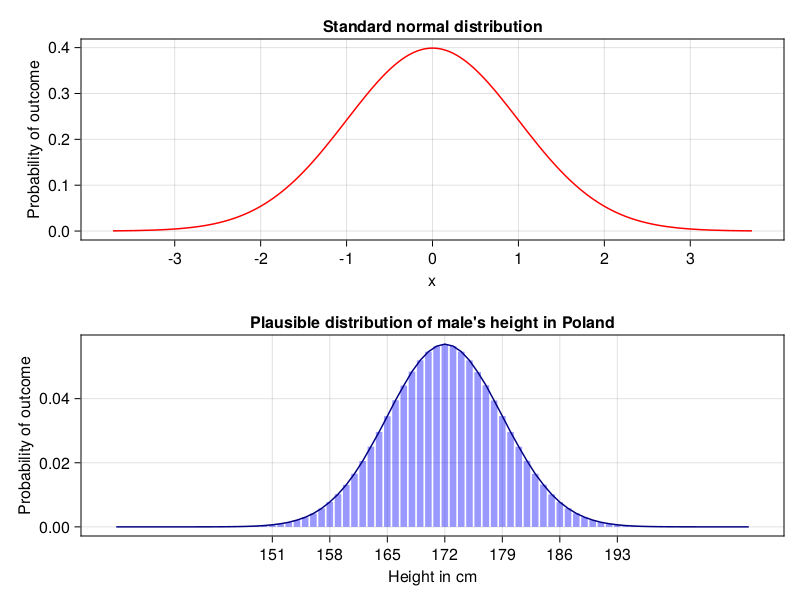
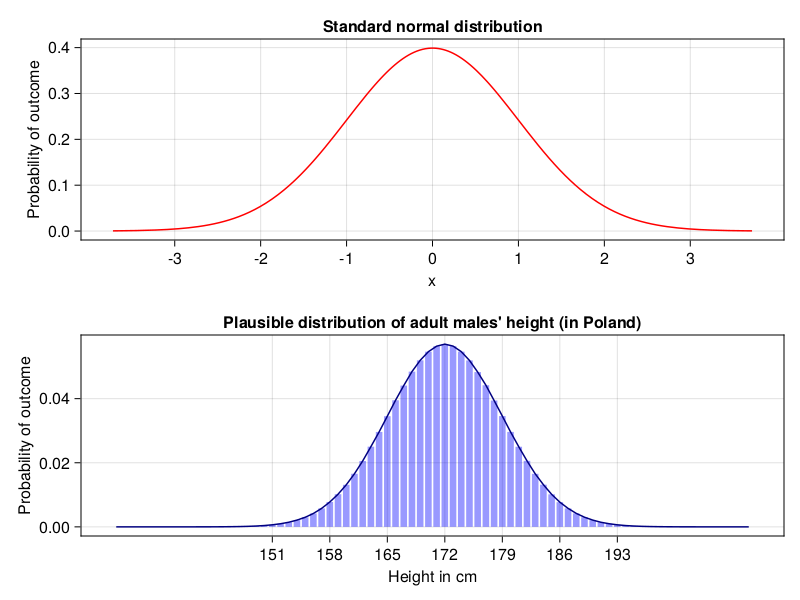
cosmetic changes

Changed region(s): [[0.2812, 0.51, 0.8125, 0.57]]

diff --git a/statistics_normal_distribution.html b/statistics_normal_distribution.html
@@ -5,6 +5,7 @@
   <meta name="viewport" content="width=device-width, initial-scale=1.0, user-scalable=yes" />
   <meta name="author" content="Bartlomiej Lukaszuk" />
   <title>Normal distribution - Romeo and Julia</title>
+
   <link rel="stylesheet" href="./style.css"/>
     <script src="./mousetrap.min.js"></script>
     <style>
@@ -96,12 +97,12 @@ where Romeo is Basic Statistics
 <figure>
 <img src="./images/rolling2diceProbs.png" id="fig:rolling2diceProbs" alt="Figure 5: Experimental probability distribution for rolling two 6-sided dice." /><figcaption aria-hidden="true">Figure 5: Experimental probability distribution for rolling two 6-sided dice.</figcaption>
 </figure>
-<p>What we got here is a <a href="https://en.wikipedia.org/wiki/Bell">bell</a> shaped distribution (c’mon use your imagination). It turns out that quite a few distributions may transform into the distribution that is bell shaped (as an exercise you may want to draw a distribution for the number of heads when tossing 10 fair coins simultaneously). Moreover, many biological phenomena got bell shaped distribution, e.g. men’s height or the famous <a href="https://en.wikipedia.org/wiki/Intelligence_quotient">intelligence quotient</a> (aka IQ). The theoretical name for it is <a href="https://en.wikipedia.org/wiki/Normal_distribution">normal distribution</a>. Placed on a graph it looks like this.</p>
+<p>What we got here is a <a href="https://en.wikipedia.org/wiki/Bell">bell</a> shaped distribution (c’mon use your imagination). It turns out that quite a few distributions may transform into the distribution that is bell shaped (as an exercise you may want to draw a distribution for the number of heads when tossing 10 fair coins simultaneously). Moreover, many biological phenomena got a bell shaped distribution, e.g. men’s height or the famous <a href="https://en.wikipedia.org/wiki/Intelligence_quotient">intelligence quotient</a> (aka IQ). The theoretical name for it is <a href="https://en.wikipedia.org/wiki/Normal_distribution">normal distribution</a>. Placed on a graph it looks like this.</p>
 <figure>
 <img src="./images/normDistribution.png" id="fig:normDistribution" alt="Figure 6: Examples of normal distribution." /><figcaption aria-hidden="true">Figure 6: Examples of normal distribution.</figcaption>
 </figure>
-<p>In Figure <a href="#fig:normDistribution">6</a> upper panel depicts standard normal distributions (<span class="math inline">\(\mu = 0, \sigma = 1\)</span>, explanation in a moment), a theoretical distribution that all statisticians and probably some mathematicians love. The bottom panel shows a distribution that is likely closer to the males’ height distribution in my country. Long time ago I read that the average height for an adult man in Poland is 172 [cm] (5.64 [feet]) and standard deviation is equal to 7 [cm] (2.75 [inch]) hence this plot.</p>
-<p>As you can see normal distribution is often depicted as a line plot. That is because it is a continuous distribution (the values on x axes can take any number from a given range). Take a look at the height. In my old <a href="https://en.wikipedia.org/wiki/Polish_identity_card">identity card</a> next to the field “Height in cm” stands “181,” but is this really my precise height? What if during a measurement the height was 180.7 or 181.3 and in the ID there could be only height in integers. I would have to round it up, right? So based on the identity card information my real height is probably somewhere between 180.5 and 181.49999… . Moreover, it can be any value in between (like 180.6354555…, although in reality a measuring device does not have such a precision). So, in the bottom panel of Figure <a href="#fig:normDistribution">6</a> I rounded theoretical values for height (<code>round(height, digits=0)</code>), drew bars (using <code>cmk.barplot</code> that you know), and added a line that goes through the middle of each bar.</p>
+<p>In Figure <a href="#fig:normDistribution">6</a> the upper panel depicts standard normal distributions (<span class="math inline">\(\mu = 0, \sigma = 1\)</span>, explanation in a moment), a theoretical distribution that all statisticians and probably some mathematicians love. The bottom panel shows a distribution that is likely closer to the adult males’ height distribution in my country. Long time ago I read that the average height for an adult man in Poland is 172 [cm] (5.64 [feet]) and standard deviation is equal to 7 [cm] (2.75 [inch]) hence this plot.</p>
+<p>As you can see normal distribution is often depicted as a line plot. That is because it is a continuous distribution (the values on x axes can take any number from a given range). Take a look at the height. In my old <a href="https://en.wikipedia.org/wiki/Polish_identity_card">identity card</a> next to the field “Height in cm” stands “181,” but is this really my precise height? What if during a measurement the height was 180.7 or 181.3 and in the ID there could be only height in integers. I would have to round it, right? So based on the identity card information my real height is probably somewhere between 180.5 and 181.49999… . Moreover, it can be any value in between (like 180.6354551…, although in reality a measuring device does not have such a precision). So, in the bottom panel of Figure <a href="#fig:normDistribution">6</a> I rounded theoretical values for height (<code>round(height, digits=0)</code>), drew bars (using <code>cmk.barplot</code> that you know), and added a line that goes through the middle of each bar.</p>
 <p>As you perhaps noticed, the distribution is characterized by two parameters:</p>
 <ul>
 <li>the average (also called the mean) (in population denoted as: <span class="math inline">\(\mu\)</span>, in sample as: <span class="math inline">\(\overline{x}\)</span>)</li>
@@ -148,7 +149,7 @@ end
 <p><strong><em>Note:</em></strong> In reality standard deviation for a sample is calculated with a slightly different formula but the one above is easier to understand.</p>
 </blockquote>
 <p>In the end we got similar numbers, reasoning, and conclusions to the one based on <code>abs</code> function.</p>
-<p>Unfortunately although I like my method better the <code>sd</code> and squaring/square rooting is so deeply fixed into statistics that everyone should know it.</p>
+<p>Although I like my method better the <code>sd</code> and squaring/square rooting is so deeply fixed into statistics that everyone should know it.</p>
 <p>And now a big question.</p>
 <p><strong>Why should we care about the mean (<span class="math inline">\(\mu\)</span>, <span class="math inline">\(\overline{x}\)</span>) or sd (<span class="math inline">\(\sigma\)</span>, <span class="math inline">\(s\)</span>, <span class="math inline">\(sd\)</span>, <span class="math inline">\(std\)</span>) anyway?</strong></p>
 <p>The answer. For practical reasons that got something to do with the so called <a href="https://en.wikipedia.org/wiki/68%E2%80%9395%E2%80%9399.7_rule">three sigma rule</a>.</p>
@@ -159,7 +160,7 @@ end
 <li>roughly 95% of the results in the population lie within <span class="math inline">\(\pm\)</span> 2 sd from the mean</li>
 <li>roughly 99% of the results in the population lie within <span class="math inline">\(\pm\)</span> 3 sd from the mean</li>
 </ul>
-<p>Example 1.</p>
+<p><strong>Example 1</strong></p>
 <p>Have you ever tested your <a href="https://en.wikipedia.org/wiki/Blood">blood</a> and received the lab results that said something like</p>
 <ul>
 <li><a href="https://en.wikipedia.org/wiki/Complete_blood_count#Reference_ranges">RBC</a>: 4.45 [<span class="math inline">\(10^{12}/\mu L\)</span>] (4.2 - 6.00)</li>
@@ -170,36 +171,36 @@ end
 <li>42 <span class="math inline">\(\pm\)</span> 5 (37–47%) for females</li>
 </ul>
 <p>Look at this <span class="math inline">\(\pm\)</span> symbol. Have you seen it before? No? Then look at the three sigma rule above.</p>
-<p>The reference values were most likely composed in the following way. A large number (let’s say 30’000) females gave their blood for testing. Hematocrit value was calculated for all of them. The distribution was established in a similar way that we did before. The average hematocrit was 42 units, the standard deviation was 5 units. The majority of the results (roughly 68%) lie within <span class="math inline">\(\pm\)</span> 1 sd from the mean. If so, then we got 42 - 5 = 38, and 42 + 5 = 47. And that is how those two values were considered to be the reference values for the population. Most likely the same is true for any other reference values you see in your lab result when you <a href="https://en.wikipedia.org/wiki/Complete_blood_count">test your blood</a> or when you perform other medical examination.</p>
-<p>Example 2.</p>
+<p>The reference values were most likely composed in the following way. A large number (let’s say 30’000) females gave their blood for testing. Hematocrit value was calculated for all of them. The distribution was established in a similar way that we did it before. The average hematocrit was 42 units, the standard deviation was 5 units. The majority of the results (roughly 68%) lie within <span class="math inline">\(\pm\)</span> 1 sd from the mean. If so, then we got 42 - 5 = 38, and 42 + 5 = 47. And that is how those two values were considered to be the reference values for the population. Most likely the same is true for any other reference values you see in your lab result when you <a href="https://en.wikipedia.org/wiki/Complete_blood_count">test your blood</a> or when you perform other medical examination.</p>
+<p><strong>Example 2</strong></p>
 <p>Let’s say a person named Peter lives in Poland. Peter approaches the famous IQ test in one of our universities. He read on the internet that there are different <a href="https://en.wikipedia.org/wiki/Intelligence_quotient#Current_tests">intelligence scales</a> used throughout the world. His score is 125. The standard deviation is 24. Is his score high, does it indicate he is gifted (a genius level intellect)? Well, in order to be a genius one has to be in the top 2% of the population with respect to their IQ value. What is the location of Peter’s IQ value in the population.</p>
 <p>The score of 125 is just a bit greater than 1 standard deviation above the mean (which in an IQ test is always 100). From Section <a href="./statistics_prob_distribution.html#sec:statistics_prob_distribution">4.4</a> we know that when we add all the probabilities we get 1 (so the area under the curve in Figure <a href="#fig:normDistribution">6</a> is equal to 1). Half of the area lies on the left, half of it on the right (1 / 2 = 0.5). So, a person with IQ = 100 is as intelligent or more intelligent than half the people (<span class="math inline">\(\frac{1}{2}\)</span> = 0.5 = 50%) in the population. Roughly 68% of the results lies within 1 sd from the mean (half of it below, half of it above). So, from IQ = 100 to IQ = 124 we got (68% / 2 = 34%). By adding 50% (IQ <span class="math inline">\(\le\)</span> 100) to 34% (100 <span class="math inline">\(\le\)</span> IQ <span class="math inline">\(\le\)</span> 124) we get 50% + 34% = 84%. Therefore in our case Peter (with his IQ = 125) is more intelligent than 84% of people in the population (so top 16% of the population). His intelligence is above the average, but it is not enough to label him a genius.</p>
 <h3 data-number="4.5.2" id="sec:statistics_intro_distributions_package"><span class="header-section-number">4.5.2</span> Distributions package</h3>
-<p>This is all nice and good to know, but in practice is slow and not precise enough. What if in the previous example the IQ was let’s say 139. What is the percentage of people less intelligent than Peter. That kind of questions can be quickly answered with <a href="https://juliastats.org/Distributions.jl/stable/">Distributions</a> package. For instance in the case of Peter described above we got</p>
+<p>This is all nice and good to know, but in practice it is slow and not precise enough. What if in the previous example the IQ was let’s say 139. What is the percentage of people more intelligent than Peter. That kind of questions can be quickly answered with <a href="https://juliastats.org/Distributions.jl/stable/">Distributions</a> package. For instance in the case of Peter described above we got</p>
 <pre class="language-julia"><code>import Distributions as dsts
 
 dsts.cdf(dsts.Normal(100, 24), 139)</code></pre>
 <p>0.9479187205847805</p>
-<p>Here we first create a normal distribution with <span class="math inline">\(\mu\)</span> = 100 and <span class="math inline">\(\sigma\)</span> = 24 (<code>dsts.Normal(100, 24)</code>). Then we sum all the probabilities <span class="math inline">\(\le\)</span> 139 with <code>dsts.cdf</code> and see that in this case only ~5% of people are as intelligent or more intelligent than Peter. BTW, <code>cdf</code> stands for cumulative distribution function. For more information on <code>dsts.cdf</code> see <a href="https://juliastats.org/Distributions.jl/stable/univariate/#Distributions.cdf-Tuple%7BUnivariateDistribution,%20Real%7D">these docs</a> or for <code>dsts.Normal</code> <a href="https://juliastats.org/Distributions.jl/stable/univariate/#Distributions.Normal">those docs</a>.</p>
+<p>Here we first create a normal distribution with <span class="math inline">\(\mu\)</span> = 100 and <span class="math inline">\(\sigma\)</span> = 24 (<code>dsts.Normal(100, 24)</code>). Then we sum all the probabilities <span class="math inline">\(\le\)</span> 139 with <code>dsts.cdf</code> and see that in this case only ~5% of people are as intelligent or more intelligent than Peter. BTW, <code>cdf</code> stands for <a href="https://en.wikipedia.org/wiki/Cumulative_distribution_function">cumulative distribution function</a>. For more information on <code>dsts.cdf</code> see <a href="https://juliastats.org/Distributions.jl/stable/univariate/#Distributions.cdf-Tuple%7BUnivariateDistribution,%20Real%7D">these docs</a> or for <code>dsts.Normal</code> <a href="https://juliastats.org/Distributions.jl/stable/univariate/#Distributions.Normal">those docs</a>.</p>
 <p>To further consolidate our knowledge. Let’s go with another example. Remember that I’m 181 cm tall. Hmm, I wonder what percentage of men in Poland is taller than me if <span class="math inline">\(\mu = 172\)</span> [cm] and <span class="math inline">\(\sigma = 7\)</span> [cm].</p>
 <pre class="language-julia"><code>1 - dsts.cdf(dsts.Normal(172, 7), 181)</code></pre>
 <p>0.09927139684333097</p>
-<p>The <code>dsts.cdf</code> gives me left side of the curve (height <span class="math inline">\(\le\)</span> 181). So in order to get those that are higher than me I subtract it from 1. It seems that under those assumptions roughly 10% of men in Poland are taller than me.</p>
-<p>OK, and how many men in Poland are exactly as tall as I am? In general that is the job for <code>dsts.pdf</code> (<code>pdf</code> stands for probablity density function, see <a href="https://juliastats.org/Distributions.jl/stable/univariate/#Distributions.pdf-Tuple%7BUnivariateDistribution,%20Real%7D">the docs</a>). It works pretty well for discrete distributions (we talked about them at the beginning of this sub-chapter). For instance theoretical probability of getting 12 while rolling two six-sided dice is</p>
+<p>The <code>dsts.cdf</code> gives me left side of the curve (height <span class="math inline">\(\le\)</span> 181). So in order to get those that are higher than me I subtract it from 1. It seems that under those assumptions roughly 10% of men in Poland are taller than me (approx. 1 out of 10 men that I encounter is taller than me).</p>
+<p>OK, and how many men in Poland are exactly as tall as I am? In general that is the job for <code>dsts.pdf</code> (<code>pdf</code> stands for <a href="https://en.wikipedia.org/wiki/Probability_density_function">probablity density function</a>, see <a href="https://juliastats.org/Distributions.jl/stable/univariate/#Distributions.pdf-Tuple%7BUnivariateDistribution,%20Real%7D">the docs for Distributions.pdf</a>). It works pretty well for discrete distributions (we talked about them at the beginning of this sub-chapter). For instance theoretical probability of getting 12 while rolling two six-sided dice is</p>
 <pre class="language-julia"><code>dsts.pdf(dsts.Binomial(2, 1/6), 2)</code></pre>
 <p>0.02777777777777778</p>
 <p>Compare it with the empirical probability from Section <a href="./statistics_prob_distribution.html#sec:statistics_prob_distribution">4.4</a> which was equal to 0.0278. Here we treated it as a binomial distribution (success: two sixes (6 + 6 = 12), failure: other result) hence <code>dsts.Binomial</code> with <code>2</code> (number of dice to roll) and <code>1/6</code> (probability of getting 6 in a single roll). Then we used <code>dsts.pdf</code> to get the probability of getting exactly two sixes. More info on <code>dsts.Binomial</code> can be found <a href="https://juliastats.org/Distributions.jl/stable/univariate/#Distributions.Binomial">here</a> and on <code>dsts.pdf</code> can be found <a href="https://juliastats.org/Distributions.jl/stable/univariate/#Distributions.pdf-Tuple%7BUnivariateDistribution,%20Real%7D">there</a>.</p>
-<p>However there is a problem with using <code>dsts.pdf</code> for continues distributions because it can take any of the infinite values within the range. Remember, in theory there is an infinite number of values between 180 and 181 (like 180.1111, 180.12222, etc.). So usually for practical reasons it is recommended not to calculate a probability density function (hence <code>pdf</code>) for a continuous distribution (1 / infinity <span class="math inline">\(\approx\)</span> 0). Still, remember that the height of 181 [cm] means that the value lies somewhere between 180.5 and 181.49999… . Moreover, we can reliably calculate the probabilities (with <code>dsts.cdf</code>) for <span class="math inline">\(\le\)</span> 180.5 and <span class="math inline">\(\le\)</span> 181.49999… so a good approximation would be.</p>
+<p>However there is a problem with using <code>dsts.pdf</code> for continues distributions because it can take any of the infinite values within the range. Remember, in theory there is an infinite number of values between 180 and 181 (like 180.1111, 180.12222, etc.). So usually for practical reasons it is recommended not to calculate a probability density function (hence <code>pdf</code>) for a continuous distribution (1 / infinity <span class="math inline">\(\approx\)</span> 0). Still, remember that the height of 181 [cm] means that the value lies somewhere between 180.5 and 181.49999… . Moreover, we can reliably calculate the probabilities (with <code>dsts.cdf</code>) for <span class="math inline">\(\le\)</span> 180.5 and <span class="math inline">\(\le\)</span> 181.49999… so a good approximation would be</p>
 <pre class="language-julia"><code>heightDist = dsts.Normal(172, 7)
 # 2 digits after dot because of the assumed precision of a measuring device
 dsts.cdf(heightDist, 181.49) - dsts.cdf(heightDist, 180.50)</code></pre>
 <p>0.024724273314878698</p>
 <p>OK. So it seems that roughly 2.5% of adult men in Poland got 181 [cm] in the field “Height” in their identity cards. If there are let’s say 10 million adult men in Poland then rougly 250000.0 (so 250 k) people are approximately my height.</p>
-<p>If you are still confused about this method take a look at Figure below.</p>
+<p>If you are still confused about this method take a look at the figure below.</p>
 <figure>
 <img src="./images/normDistCdfUsage.png" id="fig:normDistCdfUsage" alt="Figure 7: Using cdf to calculate proportion of men that are between 170 and 180 [cm] tall." /><figcaption aria-hidden="true">Figure 7: Using cdf to calculate proportion of men that are between 170 and 180 [cm] tall.</figcaption>
 </figure>
-<p>Here for better separation I placed the height of men between 170 and 180 [cm]. The method that I used subtracts the area in red from the area in blue. That is exactly what I did (but for 181.49 and 180.50 [cm]) when I typed <code>dsts.cdf(heightDist, 181.49) - dsts.cdf(heightDist, 180.50)</code> above.</p>
+<p>Here for better separation I placed the height of men between 170 and 180 [cm]. The method that I used subtracts the area in blue from the area in red (red - blue). That is exactly what I did (but for 181.49 and 180.50 [cm]) when I typed <code>dsts.cdf(heightDist, 181.49) - dsts.cdf(heightDist, 180.50)</code> above.</p>
 <p>OK, time for the last theoretical sub-chapter in this section. Whenever you’re ready click on the right arrow.</p>
 
 

diff --git a/statistics_prob_distribution.html b/statistics_prob_distribution.html
@@ -5,6 +5,7 @@
   <meta name="viewport" content="width=device-width, initial-scale=1.0, user-scalable=yes" />
   <meta name="author" content="Bartlomiej Lukaszuk" />
   <title>Probability distribution - Romeo and Julia</title>
+
   <link rel="stylesheet" href="./style.css"/>
     <script src="./mousetrap.min.js"></script>
     <style>
@@ -96,7 +97,7 @@ numOfRolls = 100_000
 diceRolls = [getSumOf2DiceRoll() for _ in 1:numOfRolls]
 diceCounts = getCounts(diceRolls)
 diceProbs = getProbs(diceCounts)</code></pre>
-<p>Here, we rolled two 6-sided dice 100 thousand (<span class="math inline">\(10^4\)</span>) times. The code introduces no new elements. The functions: <code>getCounts</code>, <code>getProbs</code>, <code>rnd.seed!</code> were already introduced in the previous chapter (see Section <a href="./statistics_prob_theor_practice.html#sec:statistics_prob_theor_practice">4.3</a>). And the <code>for _ in</code> construct we met while talking about for loops (see Section <a href="./julia_language_repetition.html#sec:julia_language_for_loops">3.6.1</a>).</p>
+<p>Here, we rolled two 6-sided dice 100 thousand (<span class="math inline">\(10^5\)</span>) times. The code introduces no new elements. The functions: <code>getCounts</code>, <code>getProbs</code>, <code>rnd.seed!</code> were already introduced in the previous chapter (see Section <a href="./statistics_prob_theor_practice.html#sec:statistics_prob_theor_practice">4.3</a>). And the <code>for _ in</code> construct we met while talking about for loops (see Section <a href="./julia_language_repetition.html#sec:julia_language_for_loops">3.6.1</a>).</p>
 <p>So, let’s take a closer look at the result.</p>
 <pre class="language-julia"><code>(diceCounts[12], diceProbs[12])</code></pre>
 <pre class="output"><code>(2780, 0.0278)</code></pre>
@@ -125,9 +126,9 @@ outcomeOf100bets = outcomeOf1bet * numOfBets
 
 round(outcomeOf100bets, digits=2)</code></pre>
 <p>-138.6</p>
-<p>OK. So, above we introduced a few similar ways to calculate that. The result of the bet is -138.6. In reality roughly 97 people that bet $5 on two sixes (6 + 6 = 12) lost their money and only 3 of them won $125 dollars which gives us <span class="math inline">\(3*\$125 - 97*\$5= -\$110\)</span> (the numbers are not exact because based on probability we got 2.78 people and not 3 and so on).</p>
+<p>OK. So, above we introduced a few similar ways to calculate that. The result of the bet is -138.6. In reality roughly 97 people that bet $5 on two sixes (6 + 6 = 12) lost their money and only 3 of them won $125 dollars which gives us <span class="math inline">\(3*\$125 - 97*\$5= -\$110\)</span> (the numbers are not exact because based on probability we got 2.78 people and not 3, and so on).</p>
 <p>Interestingly, this is the same as if you placed that same bet with me 100 times. Ninety-seven times you would have lost $5 and only 3 times you would have won $125 dollars. This would leave you over $110 poorer and me over $110 richer.</p>
-<p>It seems that instead of betting on 12 (two sixes) many times you would be better off had you started a casino or a lottery. Then you should find let’s say 1’000 people daily that will take that bet (or buy $5 ticket) and get $ 1386.0 (<code>outcomeOf1bet * 1000</code> ) richer every day (well, probably less, because you would have to pay some taxes, still this makes a pretty penny).</p>
+<p>It seems that instead of betting on 12 (two sixes) many times you would be better off had you started a casino or a lottery. Then you should find let’s say 1’000 people daily that will take that bet (or buy $5 ticket) and get you $ 1386.0 (<code>outcomeOf1bet * 1000</code> ) richer every day (well, probably less, because you would have to pay some taxes, still this makes a pretty penny).</p>
 <p>OK, you saw right through me and you don’t want to take that bet. Hmm, but what if I say a nice, big “I’m sorry” and offer you another bet. Again, you roll two six-sided dice. If you get 11 or 12 I give you $90 otherwise you give me $10. This time you know right away what to do:</p>
 <pre class="language-julia"><code>pWin = sum([diceCounts[i] for i in 11:12]) / numOfRolls
 # or
@@ -137,7 +138,7 @@ pLose = 1 - pWin
 
 round(pWin * 90 - pLose * 10, digits=2)</code></pre>
 <p>-1.54</p>
-<p>So, to estimate the probability we can either add number of occurrences of 11 and 12 and divide it by the total occurrences of all events OR, as we learned in the previous chapter (see Section <a href="./statistics_intro_probability_properties.html#sec:statistics_intro_probability_properties">4.2</a>), we can just add the probabilities of 11 and 12 to happen. Then we proceed with with calculating the expected outcome of the bet and find out that I wanted to trick you again (“I’m sorry. Sorry.”).</p>
+<p>So, to estimate the probability we can either add number of occurrences of 11 and 12 and divide it by the total occurrences of all events OR, as we learned in the previous chapter (see Section <a href="./statistics_intro_probability_properties.html#sec:statistics_intro_probability_properties">4.2</a>), we can just add the probabilities of 11 and 12 to happen. Then we proceed with calculating the expected outcome of the bet and find out that I wanted to trick you again (“I’m sorry. Sorry.”).</p>
 <p>Now, using this method (that relies on probability distribution) you will be able to look through any bet that I will offer you and choose only those that serve you well. OK, so what is a probability distribution anyway, well it is just the value that probability takes for any possible outcome. We can represent it graphically by using any of <a href="https://juliapackages.com/c/graphical-plotting">Julia’s plotting libraries</a>.</p>
 <p>Here, I’m going to use <a href="https://docs.makie.org/stable/">Makie.jl</a> which seems to produce pleasing to the eye plots and is simple enough (that’s what I think after I read its <a href="https://docs.makie.org/stable/tutorials/basic-tutorial/">Basic Tutorial</a>).</p>
 <pre class="language-julia"><code>import CairoMakie as cmk
@@ -172,6 +173,7 @@ cmk.barplot(fig[2, 1:2], xs2, ys2,
 )
 fig</code></pre>
 <p>First, we extracted the sorted keys and values from our dictionaries (<code>diceCounts</code> and <code>diceProbs</code>) using <code>getSortedKeysVals</code>. The only new element here is <code>|&gt;</code> operator. It’s role is <a href="https://docs.julialang.org/en/v1/manual/functions/#Function-composition-and-piping">piping</a> the output of one function as input to another function. So <code>keys(d) |&gt; collect |&gt; sort</code> is just another way of writing <code>sort(collect(keys(d)))</code>. In both cases first we run <code>keys(d)</code>, then we use the result of this function as an input to <code>collect</code> function, and finally pass its result to <code>sort</code> function. Out of the two options, the one with <code>|&gt;</code> seems to be clearer to me.</p>
+<p>Regarding the <code>getSortedKeysVals</code> it returns a tuple of sorted keys and values (that correspond with the keys). In line <code>xs1, ys1 = getSortedKeysVals(diceCounts)</code> we unpack then values and assign them to <code>xs1</code> (it gets sorted keys) and <code>ys1</code> (it get values that correspond with the keys). We do likewise for <code>diceProbs</code> in the line below.</p>
 <p>In the next step we draw the distributions as bar plots (<code>cmk.barplot</code>). The code seems to be pretty self explanatory after you read <a href="https://docs.makie.org/stable/tutorials/basic-tutorial/">the tutorial</a> that I just mentioned. The number of counts (number of occurrences) on Y-axis is displayed in a scientific notation, i.e. <span class="math inline">\(1.0 x 10^4\)</span> is 10’000 (one with 4 zeros) and <span class="math inline">\(1.5 = 10^4\)</span> is 15’000.</p>
 <blockquote>
 <p><strong><em>Note:</em></strong> Because of compilation process running Julia’s plots for the first time may be slow. If that is the case you may try some tricks recommended by package designers, e.g. <a href="http://gadflyjl.org/stable/#Compilation">this one from the creators of Gadfly.jl</a>.</p>

diff --git a/about.html b/about.html
@@ -5,6 +5,7 @@
   <meta name="viewport" content="width=device-width, initial-scale=1.0, user-scalable=yes" />
   <meta name="author" content="Bartlomiej Lukaszuk" />
   <title>About - Romeo and Julia</title>
+
   <link rel="stylesheet" href="./style.css"/>
     <script src="./mousetrap.min.js"></script>
     <style>
@@ -88,7 +89,7 @@ where Romeo is Basic Statistics
 <p>This is my first ‘experimental’ book entitled (for now):</p>
 <p>“Romeo and Julia, where Romeo is Basic Statistics”</p>
 <p>In this book I will explore some basic statistics (the way I see it) with <a href="https://julialang.org/">Julia</a>. Actually, I wrote it for myself from the past. Too bad the past me won’t be able to read it, still I hope it is gonna be of some value to someone that resembles me from the old days. Additionally, I wrote this book to solidify my own knowledge of statistics and Julia, after all they say we best teach that of what we learn :)</p>
-<p>Who am I (not)? I’m not a statistician, mathematician, or a computer scientist, but a biologist by education. Nowadays, I’m an enthusiast programmer. To be honest, statistics was not my favorite subject when I was at college. I didn’t get it then, I got it somewhat better now. Hopefully this will make the book easier to digest, although possibly more biased towards biology.</p>
+<p>Who am I (not)? I’m not a statistician, mathematician, or a computer scientist, but a biologist by education. Nowadays, I’m a programming enthusiast. To be honest, statistics was not my favorite subject when I was at college. I didn’t get it then, I got it somewhat better now. Hopefully this will make the book easier to digest, although possibly more biased towards biology.</p>
 <p>Oh yeah, I almost forgot, I’m not an English native speaker (keep that in mind while reading this book). Still, I hope the book will be useful to someone (it is available under <a href="http://creativecommons.org/licenses/by-nc-sa/4.0/">Creative Commons Attribution-NonCommercial-ShareAlike 4.0 International</a> license).</p>
 
 

diff --git a/index.html b/index.html
@@ -5,6 +5,7 @@
   <meta name="viewport" content="width=device-width, initial-scale=1.0, user-scalable=yes" />
   <meta name="author" content="Bartlomiej Lukaszuk" />
   <title>Greetings and Salutations - Romeo and Julia</title>
+
   <link rel="stylesheet" href="./style.css"/>
     <script src="./mousetrap.min.js"></script>
     <style>
@@ -87,7 +88,7 @@ where Romeo is Basic Statistics
 <h1 class="unnumbered" id="greetings-and-salutations">Greetings and Salutations</h1>
 <p>Book writing status: In Progress.</p>
 <p>Last update:</p>
-<p>Sun, 09 Jul 2023 12:13:41</p>
+<p>Sun, 09 Jul 2023 15:16:52</p>
 <p>Hello there. This is an open source/access book entitled: “Romeo and Julia, where Romeo is Basic Statistics.” So I guess it’s gonna be about a programing language named <a href="https://julialang.org/">Julia</a> and its usage for basic statistics.</p>
 <p>This book was generated using <a href="https://github.com/JuliaBooks/Books.jl">Books.jl</a> starting with <a href="https://github.com/JuliaBooks/BookTemplate">BooksTemplate</a>.</p>
 <p>For now this book has no <strong>PDF</strong> file (maybe I’ll add it later).</p>

diff --git a/julia_language_exercises.html b/julia_language_exercises.html
@@ -5,6 +5,7 @@
   <meta name="viewport" content="width=device-width, initial-scale=1.0, user-scalable=yes" />
   <meta name="author" content="Bartlomiej Lukaszuk" />
   <title>Julia - Exercises - Romeo and Julia</title>
+
   <link rel="stylesheet" href="./style.css"/>
     <script src="./mousetrap.min.js"></script>
     <style>
@@ -122,7 +123,7 @@ end</code></pre>
 <p>You may use some or all of them. Or perhaps you can come up with something else. Good luck.</p>
 <h3 data-number="3.8.5" id="sec:julia_language_exercise5"><span class="header-section-number">3.8.5</span> Exercise 5</h3>
 <p>I once heard a story about chess.</p>
-<p>According to the story the game was created by a Hindu wise man. He presented his invention to his king which was so impressed that he offered to fulfill his request as a reward.</p>
+<p>According to the story the game was created by a Hindu wise man. He presented his invention to his king who was so impressed that he offered to fulfill his request as a reward.</p>
 <ul>
 <li>I want nothing but some wheat grains.</li>
 <li>How many?</li>
